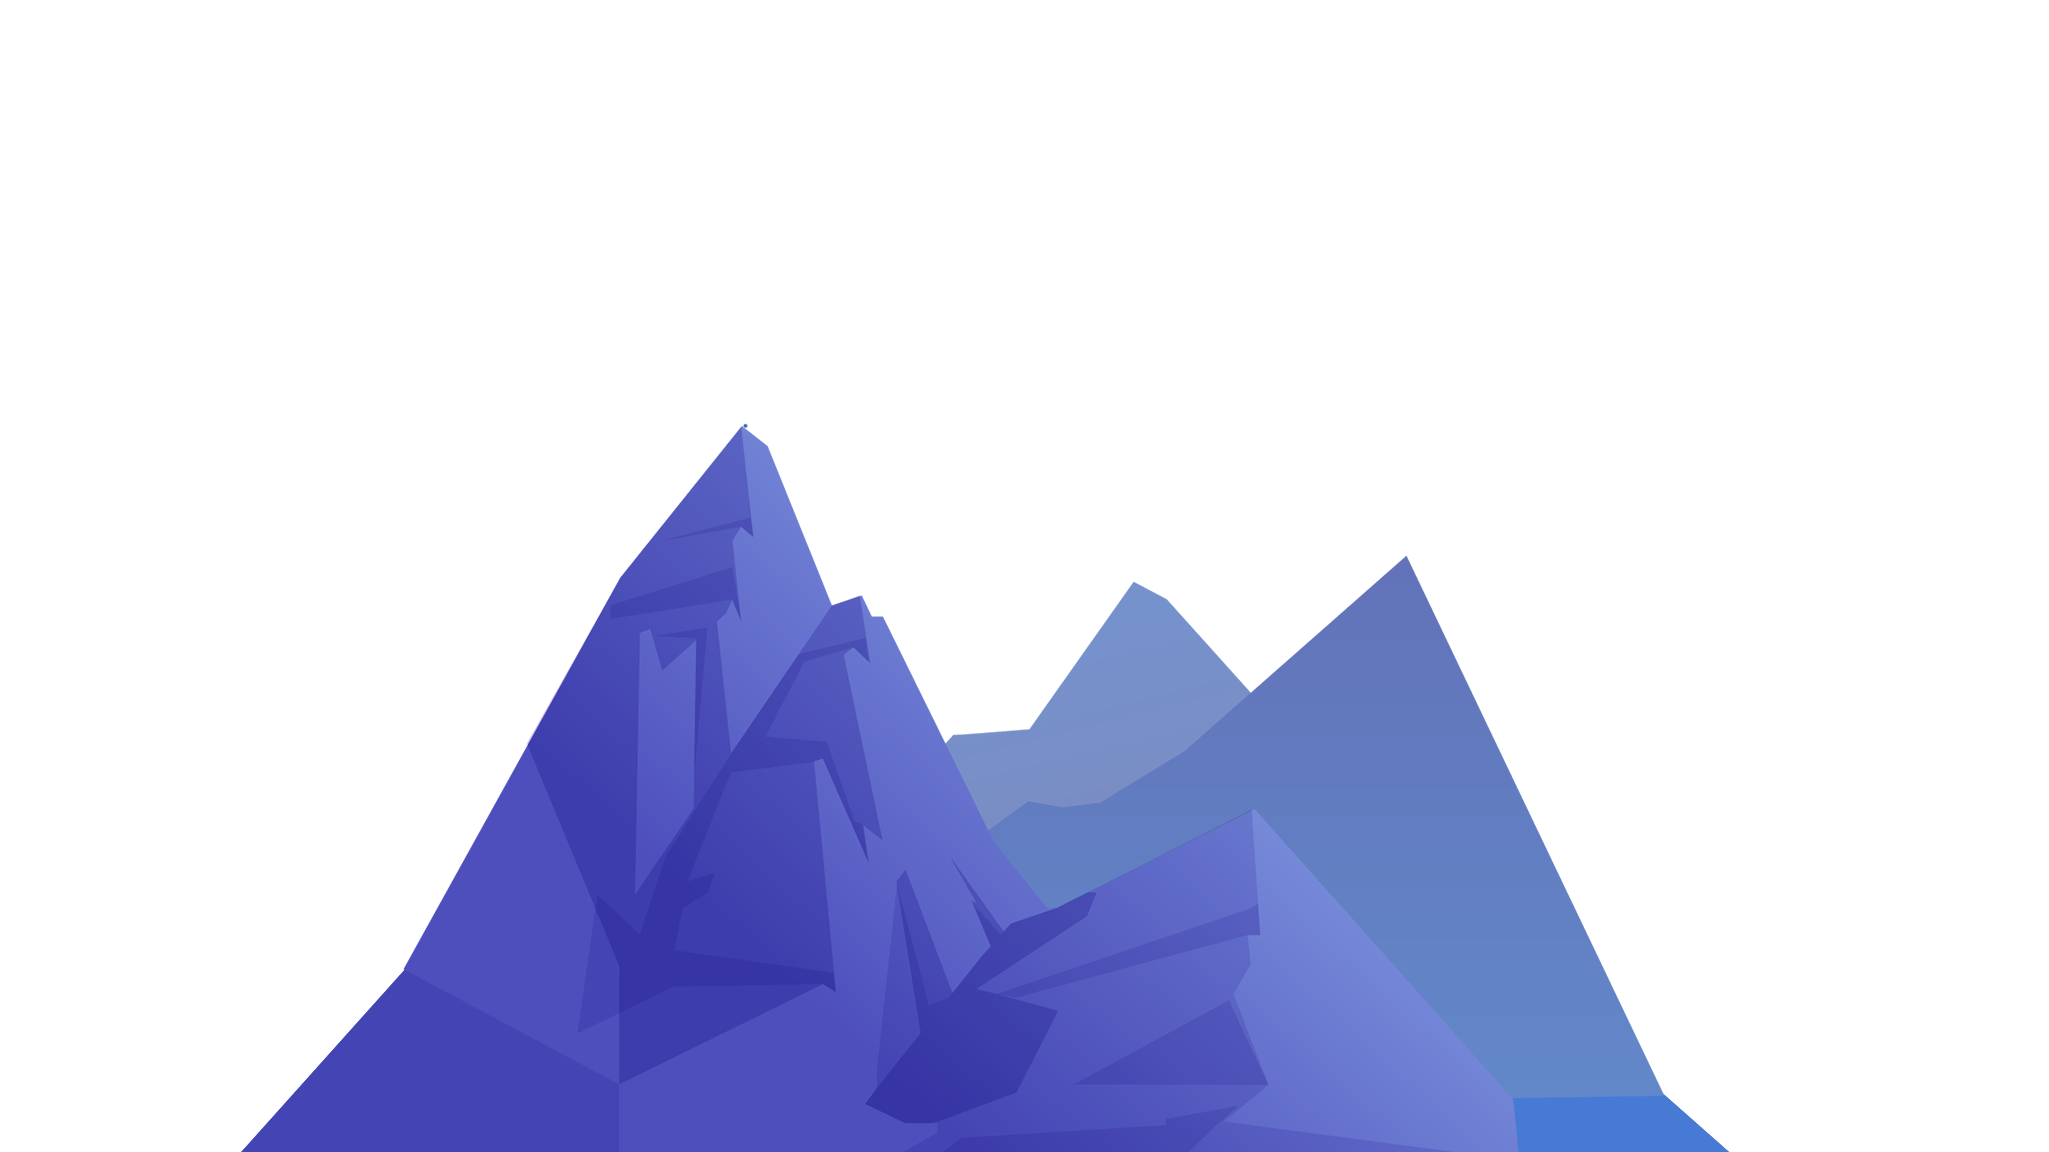
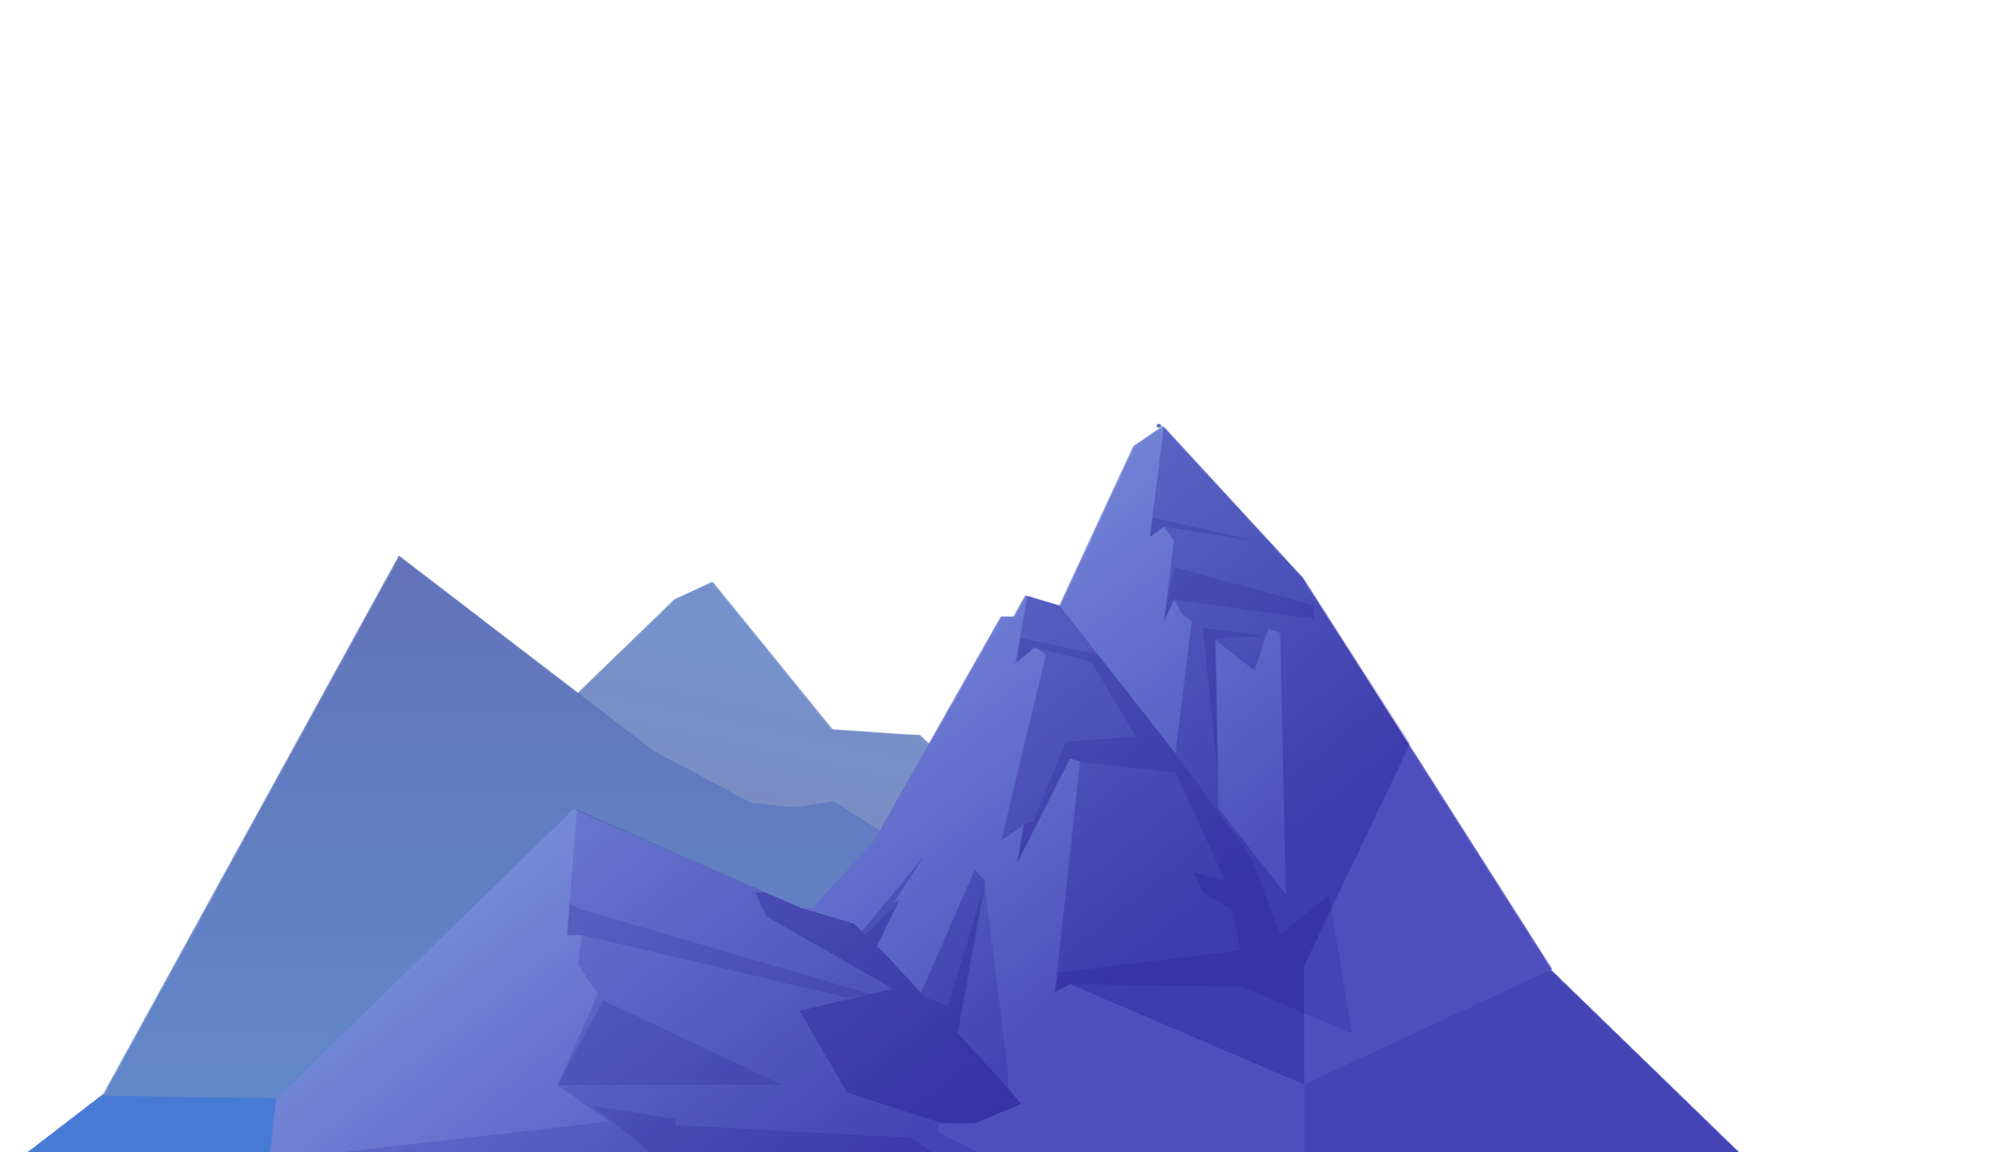
Added more layers

Changed region(s): [[0.0, 0.375, 0.875, 1.0]]

diff --git a/index.html b/index.html
@@ -49,17 +49,33 @@
             />
             <img
               class="parallax__layer"
-              data-speed="0.1"
+              data-speed="0.25"
               data-direction="1"
               src="src/images/parallax/img-3.png"
               alt="mountains"
-              id="mountains-backward"
+              id="mountains-backward-1"
+            />
+            <img
+              class="parallax__layer"
+              data-speed="0.25"
+              data-direction="1"
+              src="src/images/parallax/img-4.png"
+              alt="mountains"
+              id="mountains-backward-2"
+            />
+            <img
+              class="parallax__layer"
+              data-speed="0.25"
+              data-direction="1"
+              src="src/images/parallax/img-5.png"
+              alt="mountains"
+              id="mountains-backward-3"
             />
             <img
               class="parallax__layer"
               data-speed="0"
               data-direction="1"
-              src="src/images/parallax/img-4.png"
+              src="src/images/parallax/img-6.png"
               alt="mountains"
               id="mountains-forward"
             />

diff --git a/src/style.css b/src/style.css
@@ -101,12 +101,25 @@ body {
   mix-blend-mode: screen;
 }
 
-#mountains-backward {
+#mountains-backward-1 {
+  z-index: -1;
+}
+
+#mountains-backward-2 {
   z-index: -2;
 }
 
-#mountains-forward {
+#mountains-backward-3 {
   z-index: -1;
+}
+
+#mountains-forward {
+  z-index: 1;
+}
+
+#start-btn {
+  position: relative;
+  z-index: 2;
 }
 
 .hero__container {
